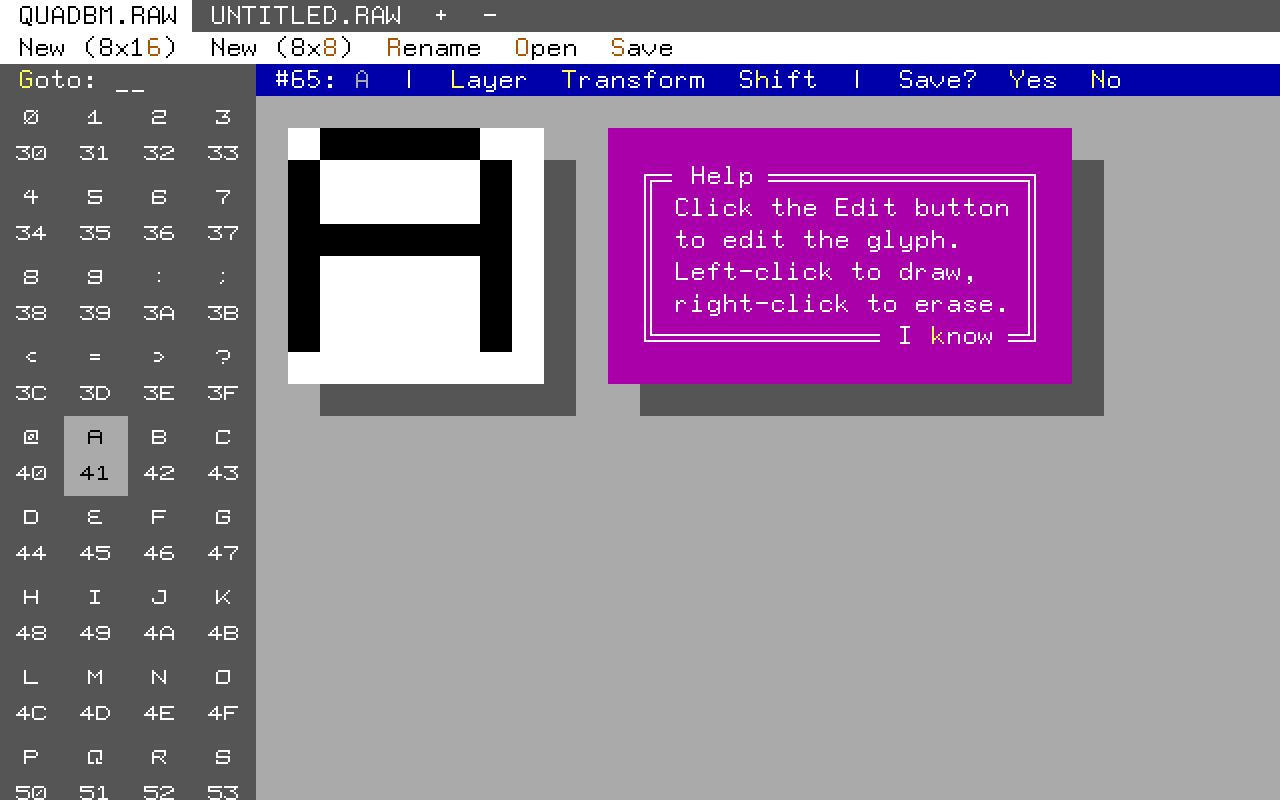
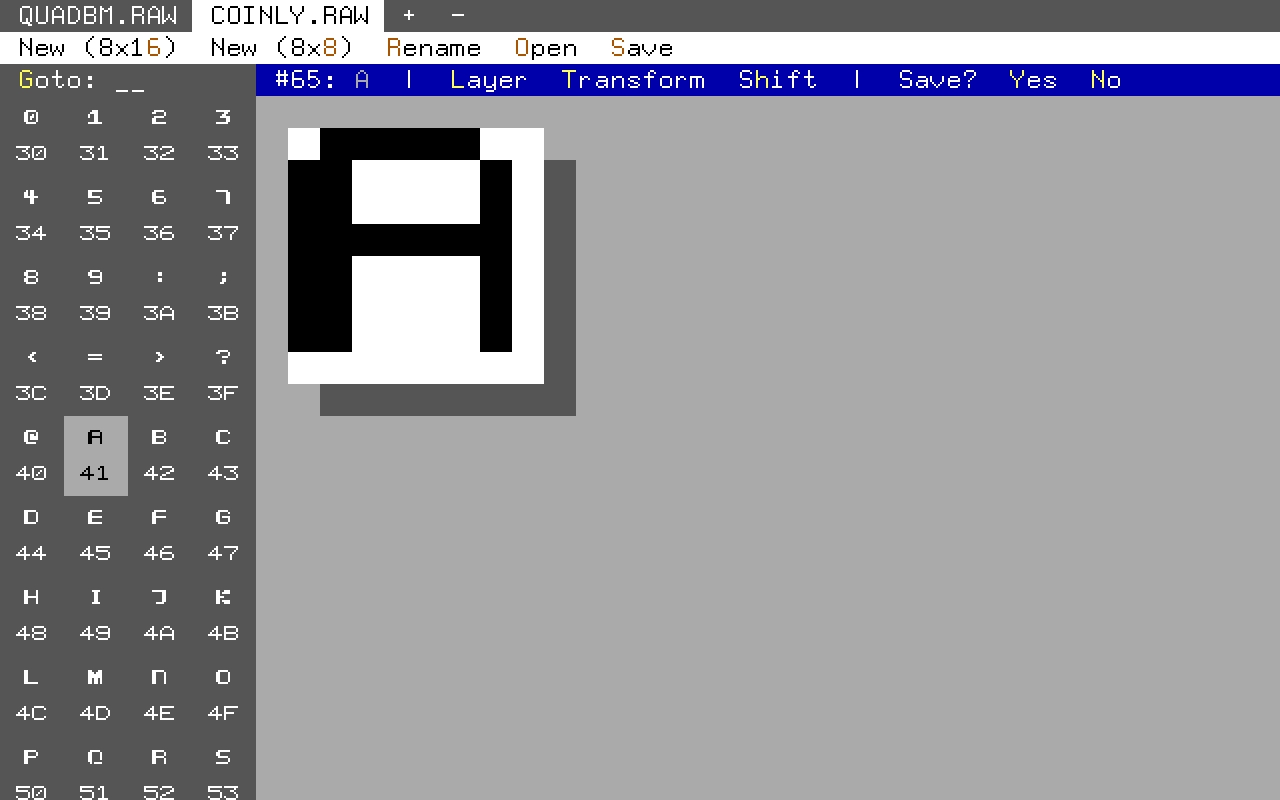
Add SEO

diff --git a/index.html b/index.html
@@ -6,7 +6,23 @@
     <meta charset="UTF-8">
     <meta name="viewport" content="width=device-width, initial-scale=1.0">
     <title>VGA FONT EDITOR ONLINE</title>
+    <meta name="description" content="Online VGA bitmap font editor. Edit and create VGA Pixel fonts in your browser.">
+    <meta name="robots" content="index, follow">
+    <link rel="canonical" href="https://sennoma-nn.github.io/Vga-Font-Editor-Online/">
     <link rel="shortcut icon" href="imgs/icon.svg">
+
+    <!-- SEO -->
+    <meta property="og:type" content="website">
+    <meta property="og:url" content="https://sennoma-nn.github.io/Vga-Font-Editor-Online/">
+    <meta property="og:title" content="VGA FONT EDITOR ONLINE">
+    <meta property="og:description" content="Online VGA bitmap font editor. Edit and create VGA Pixel fonts in your browser.">
+    <meta property="og:image" content="https://sennoma-nn.github.io/Vga-Font-Editor-Online/imgs/ScreenShot.png">
+
+    <!-- 𝕏 -->
+    <meta name="twitter:card" content="summary_large_image">
+    <meta name="twitter:title" content="VGA FONT EDITOR ONLINE">
+    <meta name="twitter:description" content="Online VGA bitmap font editor. Edit and create VGA Pixel fonts in your browser.">
+    <meta name="twitter:image" content="https://sennoma-nn.github.io/Vga-Font-Editor-Online/imgs/ScreenShot.png">
 </head>
 
 <link rel="stylesheet" type="text/css" href="styles/styles.css">